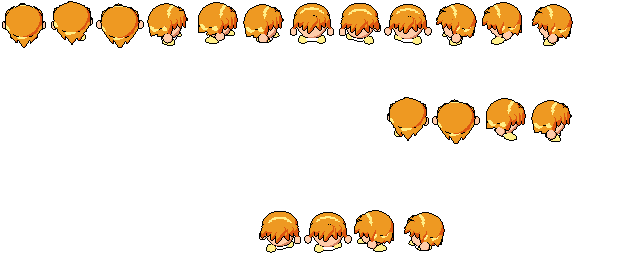
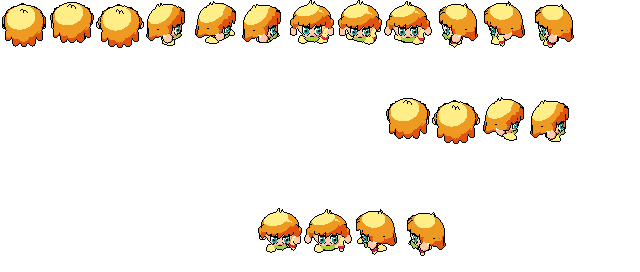
키리 모델 개선, 포즈 도구에 명암 기준(shadeBy) 추가
- 명암 기준: 지정한 부위의 전체 형태로 명암을 칠함(머리카락을 머리 돔 하나로 비춤)
- 눈·코·입 데칼, 땋은 머리(금발·빨간 리본) 위치 복구, 초록 스카프·손목 밴드
- 앞머리 단축, 정수리 금발 그라데이션, 옆머리 볼륨, 뒷머리 다발 5개(바깥으로 퍼짐)
- 부위 이름 좌우 정리, 걷기 20칸 칸 밖 픽셀 없음, KIRI_BASE.png 다시 생성

Changed region(s): [[0.0, 0.0, 0.9062, 0.1765], [0.5938, 0.3529, 0.9062, 0.5294], [0.4062, 0.7647, 0.7188, 0.9412]]

diff --git a/src/dev/poser/ui.ts b/src/dev/poser/ui.ts
@@ -678,6 +678,7 @@ class Poser {
   private partList = el("select", { size: 10 });
   private parentSel = el("select");
   private shapeSel = el("select");
+  private shadeSel = el("select");
   private sizeLabel = el("span", { textContent: "크기" });
   private modeSel = el("select");
   private rampInput = el("input", { type: "text" });
@@ -760,6 +761,12 @@ class Poser {
       else this.part.shape = shape;
       this.changed();
     });
+    this.shadeSel.addEventListener("change", () => {
+      this.snapshot();
+      if (this.shadeSel.value) this.part.shadeBy = this.shadeSel.value;
+      else delete this.part.shadeBy;
+      this.changed();
+    });
     this.rampInput.addEventListener("change", () => {
       const ramp = this.rampInput.value.split(/[ ,]+/).filter(Boolean).map(Number);
       if (ramp.length === 0 || ramp.some((n) => !Number.isInteger(n) || n < 1 || n > 15)) return;
@@ -772,7 +779,10 @@ class Poser {
       if (!id || this.model.parts.some((p) => p.id === id)) return;
       this.snapshot();
       const old = this.part.id;
-      for (const p of this.model.parts) if (p.parent === old) p.parent = id;
+      for (const p of this.model.parts) {
+        if (p.parent === old) p.parent = id;
+        if (p.shadeBy === old) p.shadeBy = id;
+      }
       for (const pose of Object.values(this.model.poses)) {
         if (pose[old]) {
           pose[id] = pose[old];
@@ -851,6 +861,7 @@ class Poser {
         this.vecRow("회전", "rot", () => this.target().rot, 5),
         this.vecRow(this.sizeLabel, "size", () => this.part.size),
         el("label", {}, "색(어둠→밝음)", this.rampInput),
+        el("label", { title: "이 부위의 전체 형태를 기준으로 명암을 칠합니다(머리카락 가닥을 머리 돔 하나로 비추기)" }, "명암 기준", this.shadeSel),
       ),
       el(
         "fieldset",
@@ -949,6 +960,8 @@ class Poser {
     this.partList.selectedIndex = this.sel;
     this.parentSel.replaceChildren(el("option", { value: "", textContent: "(없음)" }), ...ids.filter((id) => id !== this.part.id).map((id) => el("option", { value: id, textContent: id })));
     this.parentSel.value = this.part.parent ?? "";
+    this.shadeSel.replaceChildren(el("option", { value: "", textContent: "(자기 형태)" }), ...ids.filter((id) => id !== this.part.id).map((id) => el("option", { value: id, textContent: id })));
+    this.shadeSel.value = this.part.shadeBy ?? "";
     this.shapeSel.value = this.part.shape ?? "ellipsoid";
     this.sizeLabel.textContent =
       this.part.shape === "strand" ? "밑·길이·끝" : this.part.shape === "decal" ? "폭·높이·깊이" : this.part.shape && SOLIDS.has(this.part.shape) ? "반 크기" : "반지름";
@@ -961,6 +974,7 @@ class Poser {
     const modelOnly = this.mode === "model";
     for (const i of [0, 1, 2]) this.inputs.get(`size${i}`)!.disabled = !modelOnly;
     this.rampInput.disabled = !modelOnly;
+    this.shadeSel.disabled = !modelOnly;
     this.syncExtra();
   }
 }

diff --git a/src/dev/poser/model.ts b/src/dev/poser/model.ts
@@ -11,6 +11,7 @@ export interface Part {
   grad?: number;
   line?: boolean;
   image?: string[];
+  shadeBy?: string; // 명암을 이 부위의 전체 형태(타원체로 보고)에서 받는다. 머리카락 가닥을 한 덩어리로 비출 때 쓴다.
 }
 
 export type Shape = "ellipsoid" | "strand" | "decal" | "dome" | "box" | "cylinder" | "cone" | "capsule" | "torus";
@@ -198,10 +199,12 @@ export function parseModel(json: unknown): Model | null {
     if (p.shape !== undefined && !(p.shape in SHAPES)) return null;
     if (p.grad !== undefined && typeof p.grad !== "number") return null;
     if (p.line !== undefined && typeof p.line !== "boolean") return null;
+    if (p.shadeBy !== undefined && typeof p.shadeBy !== "string") return null;
     if (p.image !== undefined && (!Array.isArray(p.image) || p.image.length === 0 || !p.image.every((r) => typeof r === "string" && r.length === p.image![0].length && /^[0-9a-f.]+$/.test(r)))) return null;
     ids.add(p.id);
   }
   for (const p of m.parts) if (p.parent !== null && !ids.has(p.parent)) return null;
+  for (const p of m.parts) if (p.shadeBy !== undefined && (!ids.has(p.shadeBy) || p.shadeBy === p.id)) delete p.shadeBy;
   const poses: Model["poses"] = {};
   for (const name of POSES) poses[name] = m.poses?.[name] ?? {};
   return { ...(m as Model), yaw, poses };
@@ -212,7 +215,7 @@ const vec = (v: number[]) => `[${v.map(num).join(", ")}]`;
 
 export function formatModel(m: Model): string {
   const parts = m.parts.map(
-    (p) => `  {"id": ${JSON.stringify(p.id)}, "parent": ${JSON.stringify(p.parent)}, "pos": ${vec(p.pos)}, "rot": ${vec(p.rot)}, "size": ${vec(p.size)}, "ramp": [${p.ramp.join(", ")}]${p.shape && p.shape !== "ellipsoid" ? `, "shape": "${p.shape}"` : ""}${p.grad ? `, "grad": ${num(p.grad)}` : ""}${p.line ? `, "line": true` : ""}${p.image ? `, "image": ${JSON.stringify(p.image)}` : ""}}`,
+    (p) => `  {"id": ${JSON.stringify(p.id)}, "parent": ${JSON.stringify(p.parent)}, "pos": ${vec(p.pos)}, "rot": ${vec(p.rot)}, "size": ${vec(p.size)}, "ramp": [${p.ramp.join(", ")}]${p.shape && p.shape !== "ellipsoid" ? `, "shape": "${p.shape}"` : ""}${p.grad ? `, "grad": ${num(p.grad)}` : ""}${p.line ? `, "line": true` : ""}${p.shadeBy ? `, "shadeBy": ${JSON.stringify(p.shadeBy)}` : ""}${p.image ? `, "image": ${JSON.stringify(p.image)}` : ""}}`,
   );
   const poses = POSES.map((name) => {
     const entries = Object.entries(m.poses[name] ?? {})

diff --git a/src/dev/poser/raster.ts b/src/dev/poser/raster.ts
@@ -202,6 +202,13 @@ export function rasterize(m: Model, pose: string | null, dir: number, width: num
   }
   const ll = Math.hypot(...m.light) || 1;
   const L: Vec3 = [m.light[0] / ll, m.light[1] / ll, m.light[2] / ll];
+  // 명암 기준 부위: 맞은 점을 그 부위의 타원체 좌표로 옮겨 법선(타원체 기울기)과 위아래 위치를 대신 쓴다.
+  const proxy = new Map<number, Placed>();
+  for (const pl of placed) {
+    if (!pl.part.shadeBy) continue;
+    const at = byId.get(pl.part.shadeBy);
+    if (at !== undefined) proxy.set(pl.index, placed[at]);
+  }
   const n = width * height;
   const f: Frame = { width, height, part: new Int16Array(n).fill(-1), depth: new Float32Array(n).fill(Infinity), shade: new Float32Array(n), tex: new Int16Array(n).fill(-1) };
   for (let y = 0; y < height; y++) {
@@ -217,7 +224,18 @@ export function rasterize(m: Model, pose: string | null, dir: number, width: num
         f.depth[i] = h[0];
         f.part[i] = b.pl.index;
         const g = b.pl.part.grad ?? 0;
-        f.shade[i] = ((h[1][0] * L[0] + h[1][1] * L[1] + h[1][2] * L[2] + 1) / 2) * (1 - g) + (1 - h[2]) * g;
+        let nrm = h[1];
+        let pos = h[2];
+        const px = proxy.get(b.pl.index);
+        if (px) {
+          const s = px.part.size;
+          const l = applyT(px.rot, [o[0] + h[0] * d[0] - px.center[0], o[1] + h[0] * d[1] - px.center[1], o[2] + h[0] * d[2] - px.center[2]]);
+          const w = apply(px.rot, [l[0] / (s[0] * s[0]), l[1] / (s[1] * s[1]), l[2] / (s[2] * s[2])]);
+          const wl = Math.hypot(w[0], w[1], w[2]) || 1;
+          nrm = [w[0] / wl, w[1] / wl, w[2] / wl];
+          pos = Math.min(1, Math.max(0, (1 - l[1] / s[1]) / 2));
+        }
+        f.shade[i] = ((nrm[0] * L[0] + nrm[1] * L[1] + nrm[2] * L[2] + 1) / 2) * (1 - g) + (1 - pos) * g;
       }
       const on = f.part[i] >= 0 ? decals.get(f.part[i]) : undefined;
       if (on) {

diff --git a/EXTENSION.md b/EXTENSION.md
@@ -68,7 +68,7 @@
 - 흐름: 부위 모델 → 칸별 포즈 → 칸 크기·몸 중심(`24 − 포즈 오프셋`)에 맞춘 렌더(안티앨리어싱 없음) → 칸 배치·팔레트 매핑·1px 외곽선 → `KIRI_BASE.png`(16색) → `?sprites=kiri&base=1` 미리보기 → Photoshop 마감 → `KIRI.png`.
 - 도구는 저장소 안에 직접 만들었다(Blender는 쓰지 않는다). 부위가 단순한 입체 10~20개라 범용 3D 도구의 학습 비용보다 게임의 칸 표·포즈 오프셋·팔레트·자동 새로고침을 그대로 쓰는 쪽이 낫다고 봤다.
 - 포즈 도구 `?pose=kiri`(개발 서버에서만): 왼쪽 위 확대 뷰(7배, 칸 둘레에 여백이 있어 칸 밖으로 나간 부분도 보임), 그 옆 4방향 걷기 애니메이션(3배, 애니 표 `playerAnim` 순서로 120ms마다), 아래 20칸 시트(2배, 열 = 정지·걷기1~4, 행 = 위·오른쪽·아래·왼쪽, 클릭하면 그 칸으로), 오른쪽 패널(보기·부위·값·포즈·카메라·팔레트). 확대 뷰에서 클릭으로 부위 선택, 드래그로 화면 평면 이동, Shift+드래그로 깊이 이동, 우클릭·Alt+드래그로 회전, 휠로 크기(모델에서만). 방향키 1px(Shift 4px), Alt+방향키 회전, Tab 다음 부위, M 모델, 1~5 포즈, Q/W 방향, O 스마슈 칸 겹치기, H 고해상도/1배율, Ctrl+Z 되돌리기, Ctrl+S 저장. 고해상도 보기는 외곽선 없이 캔버스 전체에 형태를 보여 주고(칸 경계는 선으로 표시) 선택 부위에 자홍색을 섞어 강조한다. 저장하지 않고 떠나면 경고한다. 확대 뷰 옆의 자유 시점은 같은 모델을 아무 각도에서 본다(드래그로 회전, 휠 확대, 더블클릭으로 게임 시점, 클릭으로 부위 선택). 확대 뷰와 자유 시점에는 선택 부위의 손잡이가 뜬다. 동그라미는 이동(빨강 X·초록 Y·파랑 Z, 캐릭터 기준 축)이고, 네모는 그 축 크기(부위 지역 축, 모델에서만)다. 끌면 마우스 이동을 그 축의 화면 방향에 투영한 길이만큼 바뀐다. 가닥은 밑 굵기·길이·끝 굵기, 데칼은 폭·높이 손잡이다. 부위 패널의 "추가" 버튼은 고른 형태의 새 부위를 선택 부위의 자식으로 그 앞쪽 표면에 만든다(색은 부모를 물려받고 같은 색에 묻히지 않게 `line`을 켠다).
-- 모델 파일 `assets/characters/kiri-model.json`(스키마는 `src/dev/poser/model.ts`의 `Model`): 기울기 `pitch`, 방향별 Y축 회전 `yaw`(위·오른쪽·아래·왼쪽), 빛 방향 `light`, 외곽선 색 번호 `outline`, 부위 경계에 외곽선을 넣을 깊이 차 `edge`(px), 16색 `palette`(0은 투명), 부위 `parts`, 포즈 `poses`. 부위는 `parent`(없으면 몸 중심 원점), 부모 기준 `pos`, 회전 `rot`(도, Y·X·Z 순으로 곱함), `size`, 명암 색 번호 `ramp`(어둠→밝음), 형태 `shape`, 그라데이션 `grad`(0~1, 생략하면 0), 외곽선 강제 `line`(생략하면 꺼짐)을 가진다. `line`을 켠 부위는 깊이 차와 상관없이 자기보다 뒤에 있는 부위와의 경계에도 외곽선을 그린다(얼굴에 붙은 눈 흰자처럼 깊이 차가 작은 곳에 테두리를 두려고). 형태는 타원체(기본, `shape` 생략, `size`는 세 축 반지름), 가닥(`"strand"`), 데칼(`"decal"`), 그리고 반구(`"dome"`, 위쪽 반)·상자(`"box"`)·원기둥(`"cylinder"`)·원뿔(`"cone"`, 밑면 아래·꼭짓점 위)·캡슐(`"capsule"`)·고리(`"torus"`, 지역 XY 평면)다. 반구~고리는 지역 ±1 안의 단위 도형을 `size`(세 축 반 크기)만큼 늘린 것이고, 렌더는 단위 공간 거리 함수에 가장 작은 축 크기를 곱한 보수적인 걸음으로 전진해 교점을 구한다. 가닥은 밑동에서 지역 −Y 방향으로 뻗으며 끝으로 갈수록 가늘어지는 둥근 원뿔이고 `size`는 밑 반지름·길이·끝 반지름이다. 끝 반지름을 0.5 정도로 두면 끝이 뾰족해져 머리카락 갈래가 된다. 데칼은 두께 없이 부모 부위 표면에 그림을 씌운다. `image`(행 문자열 배열, 글자는 팔레트 번호 16진수, `.`은 투명)를 지역 XY 평면에 `size`의 폭·높이로 펼치고, 광선이 부모에 맞은 점을 그 평면에 투영해(지역 Z가 ±깊이 안일 때만) 그 자리 그림 색을 명암 없이 칠한다. 눈처럼 얼굴에 그려지는 것은 데칼로 만든다(입체로 붙이면 각도에 따라 튀어나오거나 파묻힌다). 패널의 "형태"에서 바꾸고, 그림은 모델 파일에서 고친다. 포즈는 부위별 `pos`·`rot` 차이값으로 기본 자세에 더한다. 이름이 `L`·`R`로 끝나는 부위끼리는 좌우 반전 복사 때 서로 바뀐다(X 위치, Y·Z 회전 부호 반전). 파일이 없으면 기본 모델로 시작한다.
+- 모델 파일 `assets/characters/kiri-model.json`(스키마는 `src/dev/poser/model.ts`의 `Model`): 기울기 `pitch`, 방향별 Y축 회전 `yaw`(위·오른쪽·아래·왼쪽), 빛 방향 `light`, 외곽선 색 번호 `outline`, 부위 경계에 외곽선을 넣을 깊이 차 `edge`(px), 16색 `palette`(0은 투명), 부위 `parts`, 포즈 `poses`. 부위는 `parent`(없으면 몸 중심 원점), 부모 기준 `pos`, 회전 `rot`(도, Y·X·Z 순으로 곱함), `size`, 명암 색 번호 `ramp`(어둠→밝음), 형태 `shape`, 그라데이션 `grad`(0~1, 생략하면 0), 외곽선 강제 `line`(생략하면 꺼짐), 명암 기준 `shadeBy`(생략하면 자기 형태)를 가진다. `shadeBy`에 다른 부위 이름을 주면 그 부위를 타원체로 보고, 맞은 점에서의 법선과 위아래 위치로 명암을 칠한다. 머리카락 가닥·다발이 각자 명암을 갖지 않고 머리 돔(`hair`) 하나로 비춰지게 하려고 넣었다(가닥 구분은 외곽선이 맡는다). 패널의 "명암 기준"에서 고른다. `line`을 켠 부위는 깊이 차와 상관없이 자기보다 뒤에 있는 부위와의 경계에도 외곽선을 그린다(얼굴에 붙은 눈 흰자처럼 깊이 차가 작은 곳에 테두리를 두려고). 형태는 타원체(기본, `shape` 생략, `size`는 세 축 반지름), 가닥(`"strand"`), 데칼(`"decal"`), 그리고 반구(`"dome"`, 위쪽 반)·상자(`"box"`)·원기둥(`"cylinder"`)·원뿔(`"cone"`, 밑면 아래·꼭짓점 위)·캡슐(`"capsule"`)·고리(`"torus"`, 지역 XY 평면)다. 반구~고리는 지역 ±1 안의 단위 도형을 `size`(세 축 반 크기)만큼 늘린 것이고, 렌더는 단위 공간 거리 함수에 가장 작은 축 크기를 곱한 보수적인 걸음으로 전진해 교점을 구한다. 가닥은 밑동에서 지역 −Y 방향으로 뻗으며 끝으로 갈수록 가늘어지는 둥근 원뿔이고 `size`는 밑 반지름·길이·끝 반지름이다. 끝 반지름을 0.5 정도로 두면 끝이 뾰족해져 머리카락 갈래가 된다. 데칼은 두께 없이 부모 부위 표면에 그림을 씌운다. `image`(행 문자열 배열, 글자는 팔레트 번호 16진수, `.`은 투명)를 지역 XY 평면에 `size`의 폭·높이로 펼치고, 광선이 부모에 맞은 점을 그 평면에 투영해(지역 Z가 ±깊이 안일 때만) 그 자리 그림 색을 명암 없이 칠한다. 눈처럼 얼굴에 그려지는 것은 데칼로 만든다(입체로 붙이면 각도에 따라 튀어나오거나 파묻힌다). 패널의 "형태"에서 바꾸고, 그림은 모델 파일에서 고친다. 포즈는 부위별 `pos`·`rot` 차이값으로 기본 자세에 더한다. 이름이 `L`·`R`로 끝나는 부위끼리는 좌우 반전 복사 때 서로 바뀐다(X 위치, Y·Z 회전 부호 반전). 파일이 없으면 기본 모델로 시작한다.
 - 좌표: 단위는 px, X 오른쪽, Y 위, Z 화면 아래쪽(시청자 쪽). 모델은 아래(정면)를 보는 자세로 만들고, 방향별로 `yaw`만큼 Y축 회전한다. 카메라는 직교이고 수평 아래로 `pitch`도 내려다본다. 화면 y = −Y·cos + Z·sin.
 - 렌더: 칸 픽셀 중심마다 광선을 쏴 가장 가까운 부위를 찾고(데칼은 광선 대상에서 빼고 맞은 부위 위에 덧칠한다. 타원체는 해석적으로, 가닥은 경계 구 안에서 거리 함수를 따라 전진해서 교점을 구하고 법선은 거리 함수의 기울기로 구한다. 부위마다 화면에 투영한 경계 원 밖의 픽셀은 건너뛴다), 법선과 빛의 내적((n·L+1)/2)과 위치값(타원체는 위 0·아래 1, 가닥은 밑동 0·끝 1)을 `grad` 비율로 섞어(명암 = 빛·(1−grad) + (1−위치)·grad) `ramp` 길이로 나눠 색을 고른다. 빈 칸과 맞닿은 픽셀, 더 앞(깊이 차 `edge` 초과)의 다른 부위와 맞닿은 픽셀, `line`을 켠 부위에서 더 뒤의 다른 부위와 맞닿은 픽셀은 외곽선 색이 된다. 렌더러(`src/dev/poser/raster.ts`)는 DOM을 쓰지 않아 node에서도 돌릴 수 있다.
 - 저장(Ctrl+S): 개발 서버에 `PUT /dev/characters/kiri-model.json`과 `PUT /dev/gfx/KIRI_BASE.png`(PNG 서명 검사, 2MB 이하, 루프백만)를 보낸다. `KIRI_BASE.png`는 걷기 20칸만 그린 640×272 16색 인덱스 PNG다. `?sprites=kiri&base=1`은 `KIRI.png` 대신 `KIRI_BASE.png`를 읽고 그 파일을 감시하므로, 포즈 도구에서 저장하면 미리보기가 1초 안에 바뀐다.
